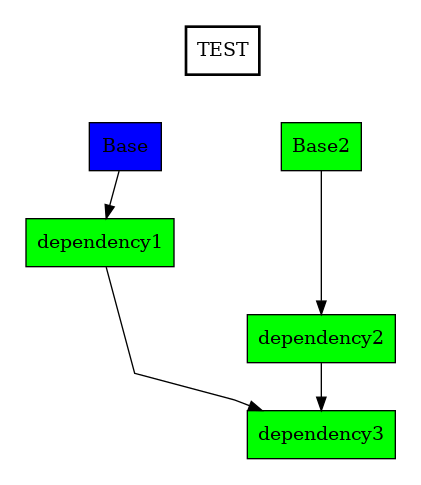
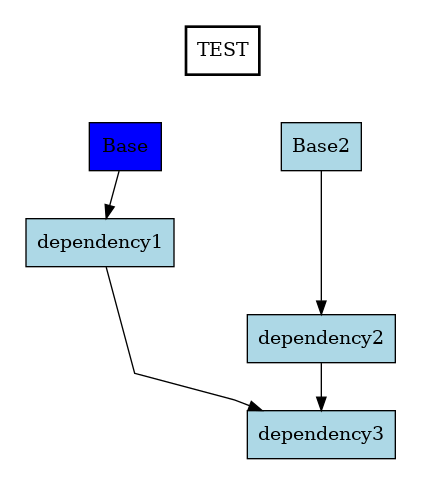
Updated example

diff --git a/README.md b/README.md
@@ -26,9 +26,9 @@ Available options:
 
 Example input file in the DependenViz language
 
-input.dvz
+docs/prueba.dvz
 ```
-projectName: Test
+TEST: (color: all only LightBlue);
 
 Base {
     -- comments start with '--'
@@ -53,9 +53,9 @@ dependency3 {
 }
 ```
 
-When called with `dependenViz input.dvz` or `cabal run dependenViz -- input.dvz -o output` this outputs
+When called with `cabal run dependenViz -- docs/prueba.dvz -o output`,
+or with `dependenViz input.dvz` after installing with `cabal install .`, this outputs
 
 output.png
-
 ![output image](docs/prueba.png)
 
